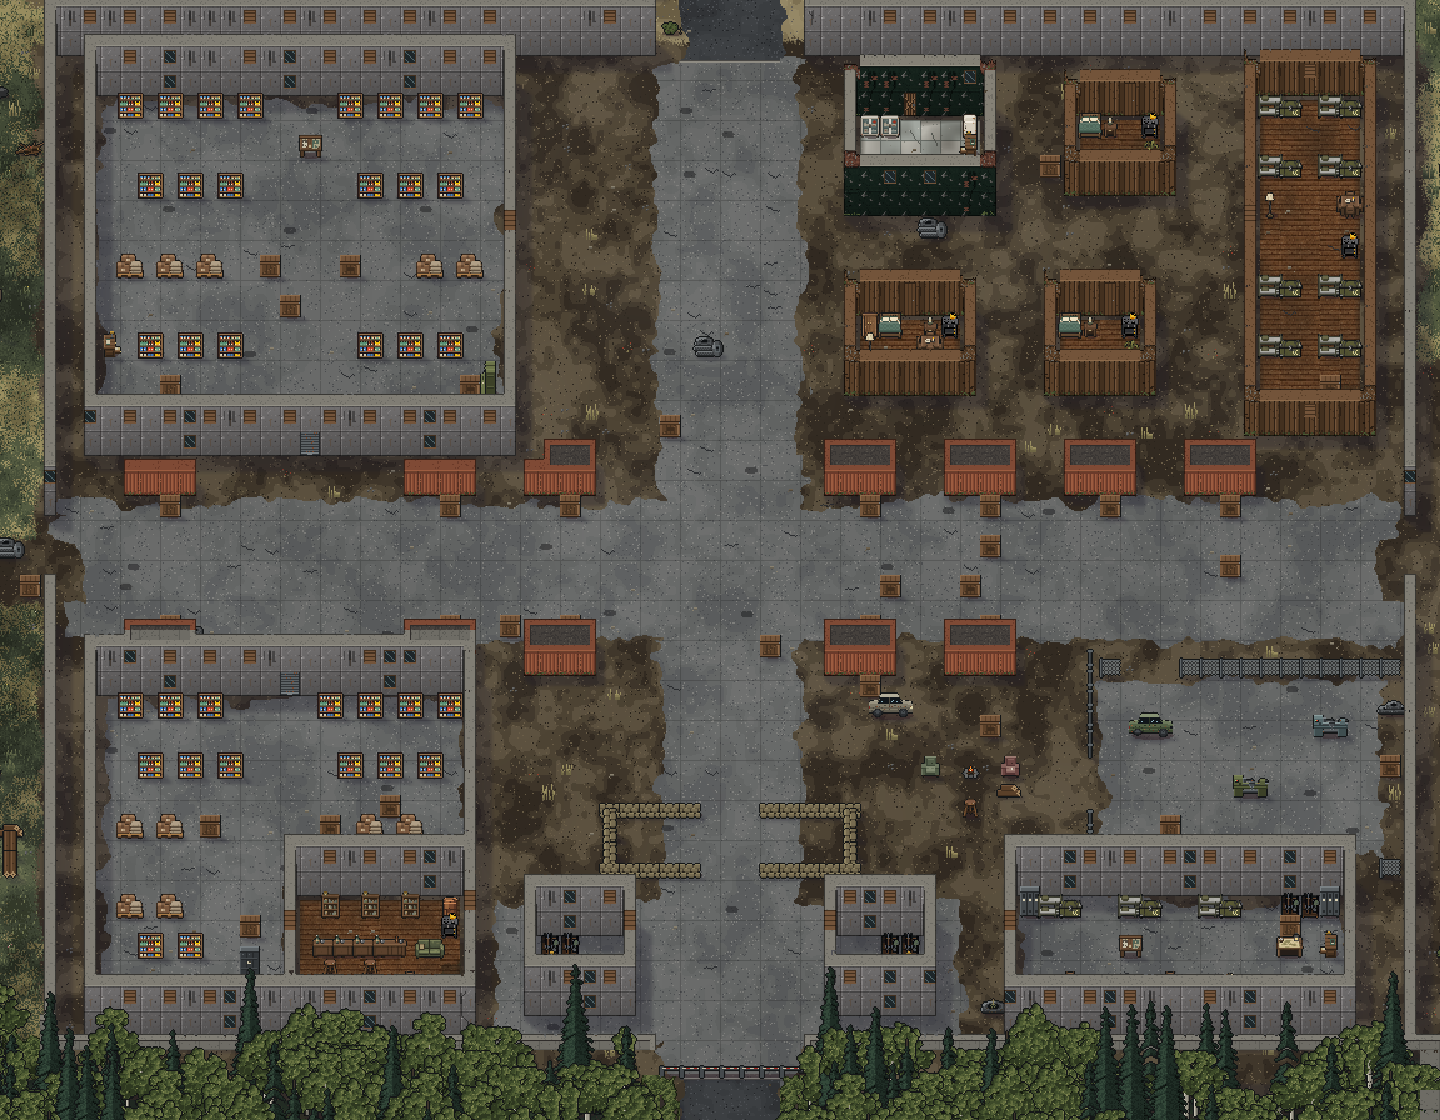
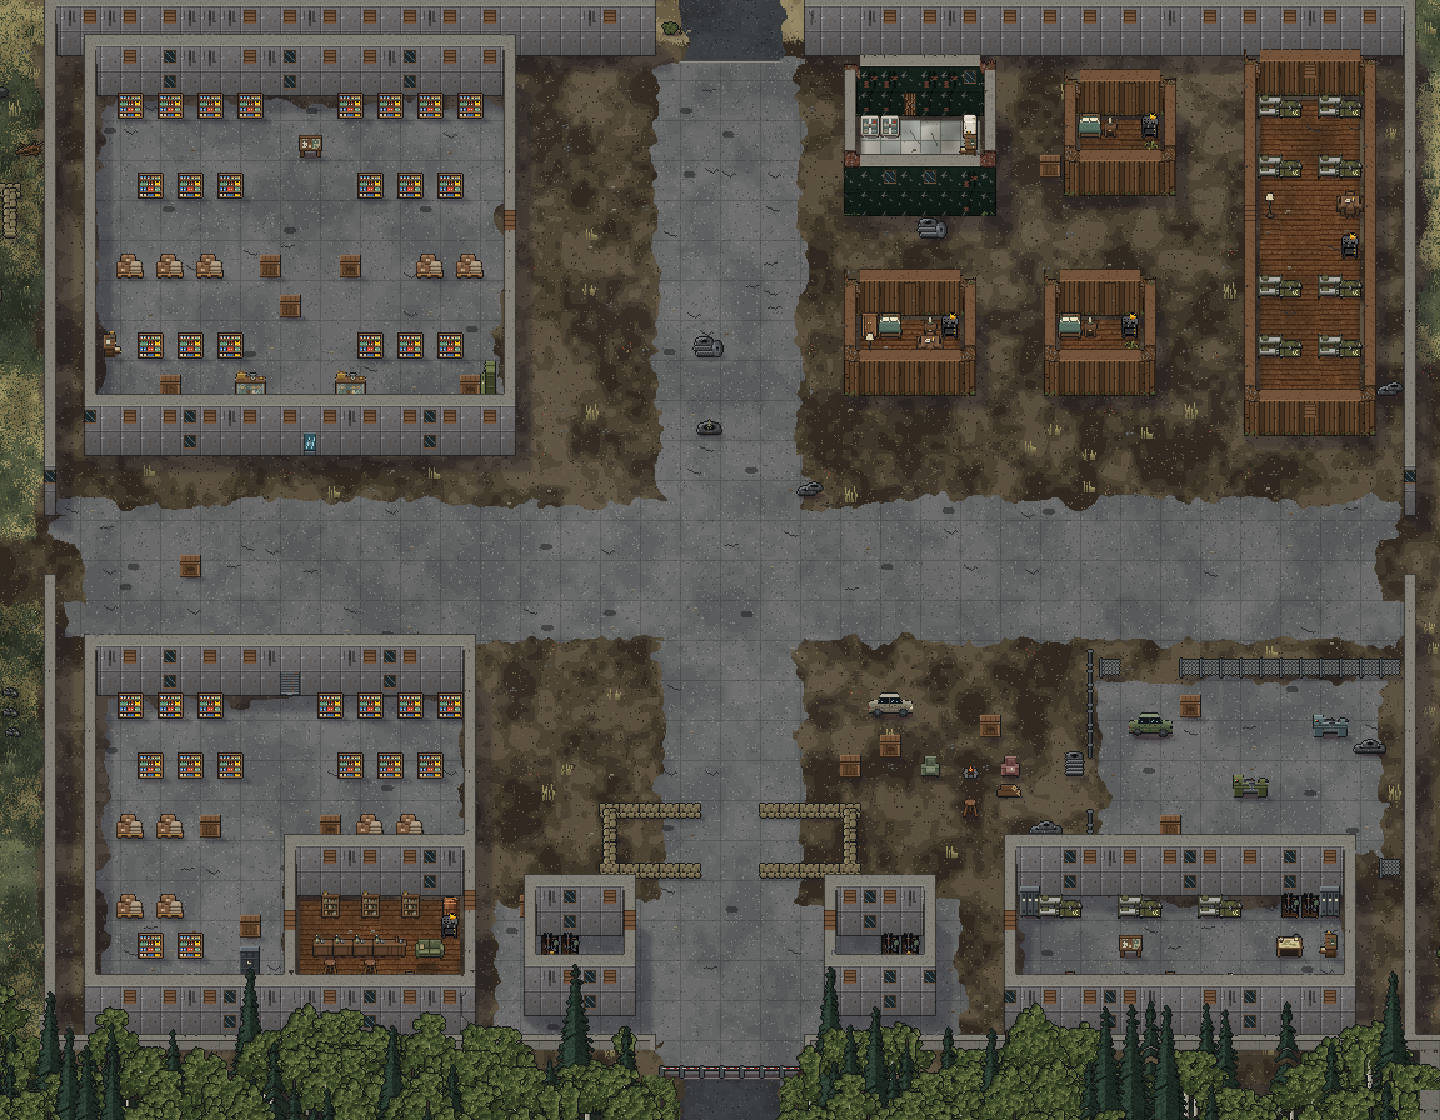
Hub: remove container stalls, Bazaar traders inside the NW warehouse
Claude-Session: https://claude.ai/code/session_01Jpd5tdDJTR7BVueAYV1KDM

diff --git a/Assets/Scripts/GameCore/TierMaps.cs b/Assets/Scripts/GameCore/TierMaps.cs
@@ -846,12 +846,10 @@ namespace GameCore
             Sandbags(c, 94, 180, 13, 4, 0, 3);
             for (int x = 97; x <= 103; x++) c.Deco(x, 193, "barrierpole");
             c.Landmark("Sentinel Checkpoint", 100, 189);
-            // The Bazaar: container stalls along both sides of the cross road
-            foreach (int sx in new[] { 70, 84, 90, 105, 111, 117, 123 }) { c.Rect(sx, 163, 4, 2, Solid, 0, "container").Put(sx + 2, 165, ScatterCover, "crate"); }
-            foreach (int sx in new[] { 70, 84, 90, 105, 111 }) { c.Rect(sx, 172, 4, 2, Solid, 0, "container").Put(sx + 2, 171, ScatterCover, "crate"); }
-            c.Landmark("The Bazaar", 100, 168);
+            // The Bazaar: the traders keep their stalls inside the NW warehouse (Yan: the containers did not fit)
             // NW: the big warehouse
             c.Clear(67, 143, 24, 21, Dirt); Interiors.Stamp(c, 68, 144, Interiors.WarehouseN, Interiors.WarehouseNFloor, "concrete", "warehouse");
+            c.Landmark("The Bazaar", 79, 160);
             // SW: the big warehouse with the Rusty Anchor in its lower-right corner (the bar's own door opens east onto the road side)
             c.Clear(67, 174, 22, 19, Dirt); Interiors.Stamp(c, 68, 174, Interiors.WarehouseBar, Interiors.WarehouseBarFloor, "concrete", "warehouse");
             c.Landmark("The Rusty Anchor", 88, 187);

diff --git a/Assets/Scripts/GameCore/Interiors.cs b/Assets/Scripts/GameCore/Interiors.cs
@@ -365,7 +365,7 @@ namespace GameCore
             "n....................#",
             "#..g.g.g......g.g.g..#",
             "#....................n",
-            "#.d.c..............ch#",
+            "#.d.c...C....C.....ch#",
             "#....................#",
             "#....................#",
             "#####n#####D#####n####",

diff --git a/ArtSource/WORK_LOG.md b/ArtSource/WORK_LOG.md
@@ -7308,3 +7308,7 @@ Yan: "the artstyle is not consistent on the furniture, some have hard black outl
 - Yan sent a drawing: a crossroads (N-S road, E-W "Bazaar" road), a big warehouse NW, a big warehouse SW with the bar in its lower-right corner, houses and a long bunkhouse NE, a truck, a campfire and a long "building" SE. `TierMaps.cs` hub rebuilt to match: E-W concrete road y165-171 with container stalls on both sides; `Interiors.WarehouseN` (22x19) and `WarehouseBar` (20x18, the Rusty Anchor as an 8x6 room inside with its own east door, landmark outside it); Hub Clinic + three cabins NE; `BunkTall` (7x18) on the east edge (Hub Bunkhouse); truck (two wrecks), campfire with seats; Repair Yard shrunk to the SE fenced corner; Sentinel Barracks = `BarracksLong` (18x8) bottom right; checkpoint guard rooms kept. Landmarks moved to the new doors. New loot archetype `warehouse` (civilian).
 - Harness: new plans in the reachability check; ALL CHECKS PASSED. Render `maps/renders/buildings/hub_crossroads.png` (map renderer, roofs off, not Unity).
 - **Not run in Unity.** Not checked: crew positions at the moved landmarks, quest/escort paths through the hub, Bazaar traders' spots, loot balance.
+
+## Batch 9eu (2026-11-25) - hub: no container stalls
+
+- Yan: the orange containers don't fit; the traders are in the warehouses. Removed all stall containers and crates from the cross road; `The Bazaar` landmark now stands inside the NW warehouse by its door, with two shop counters (`WarehouseN` row 15). Harness passes; not run in Unity.
